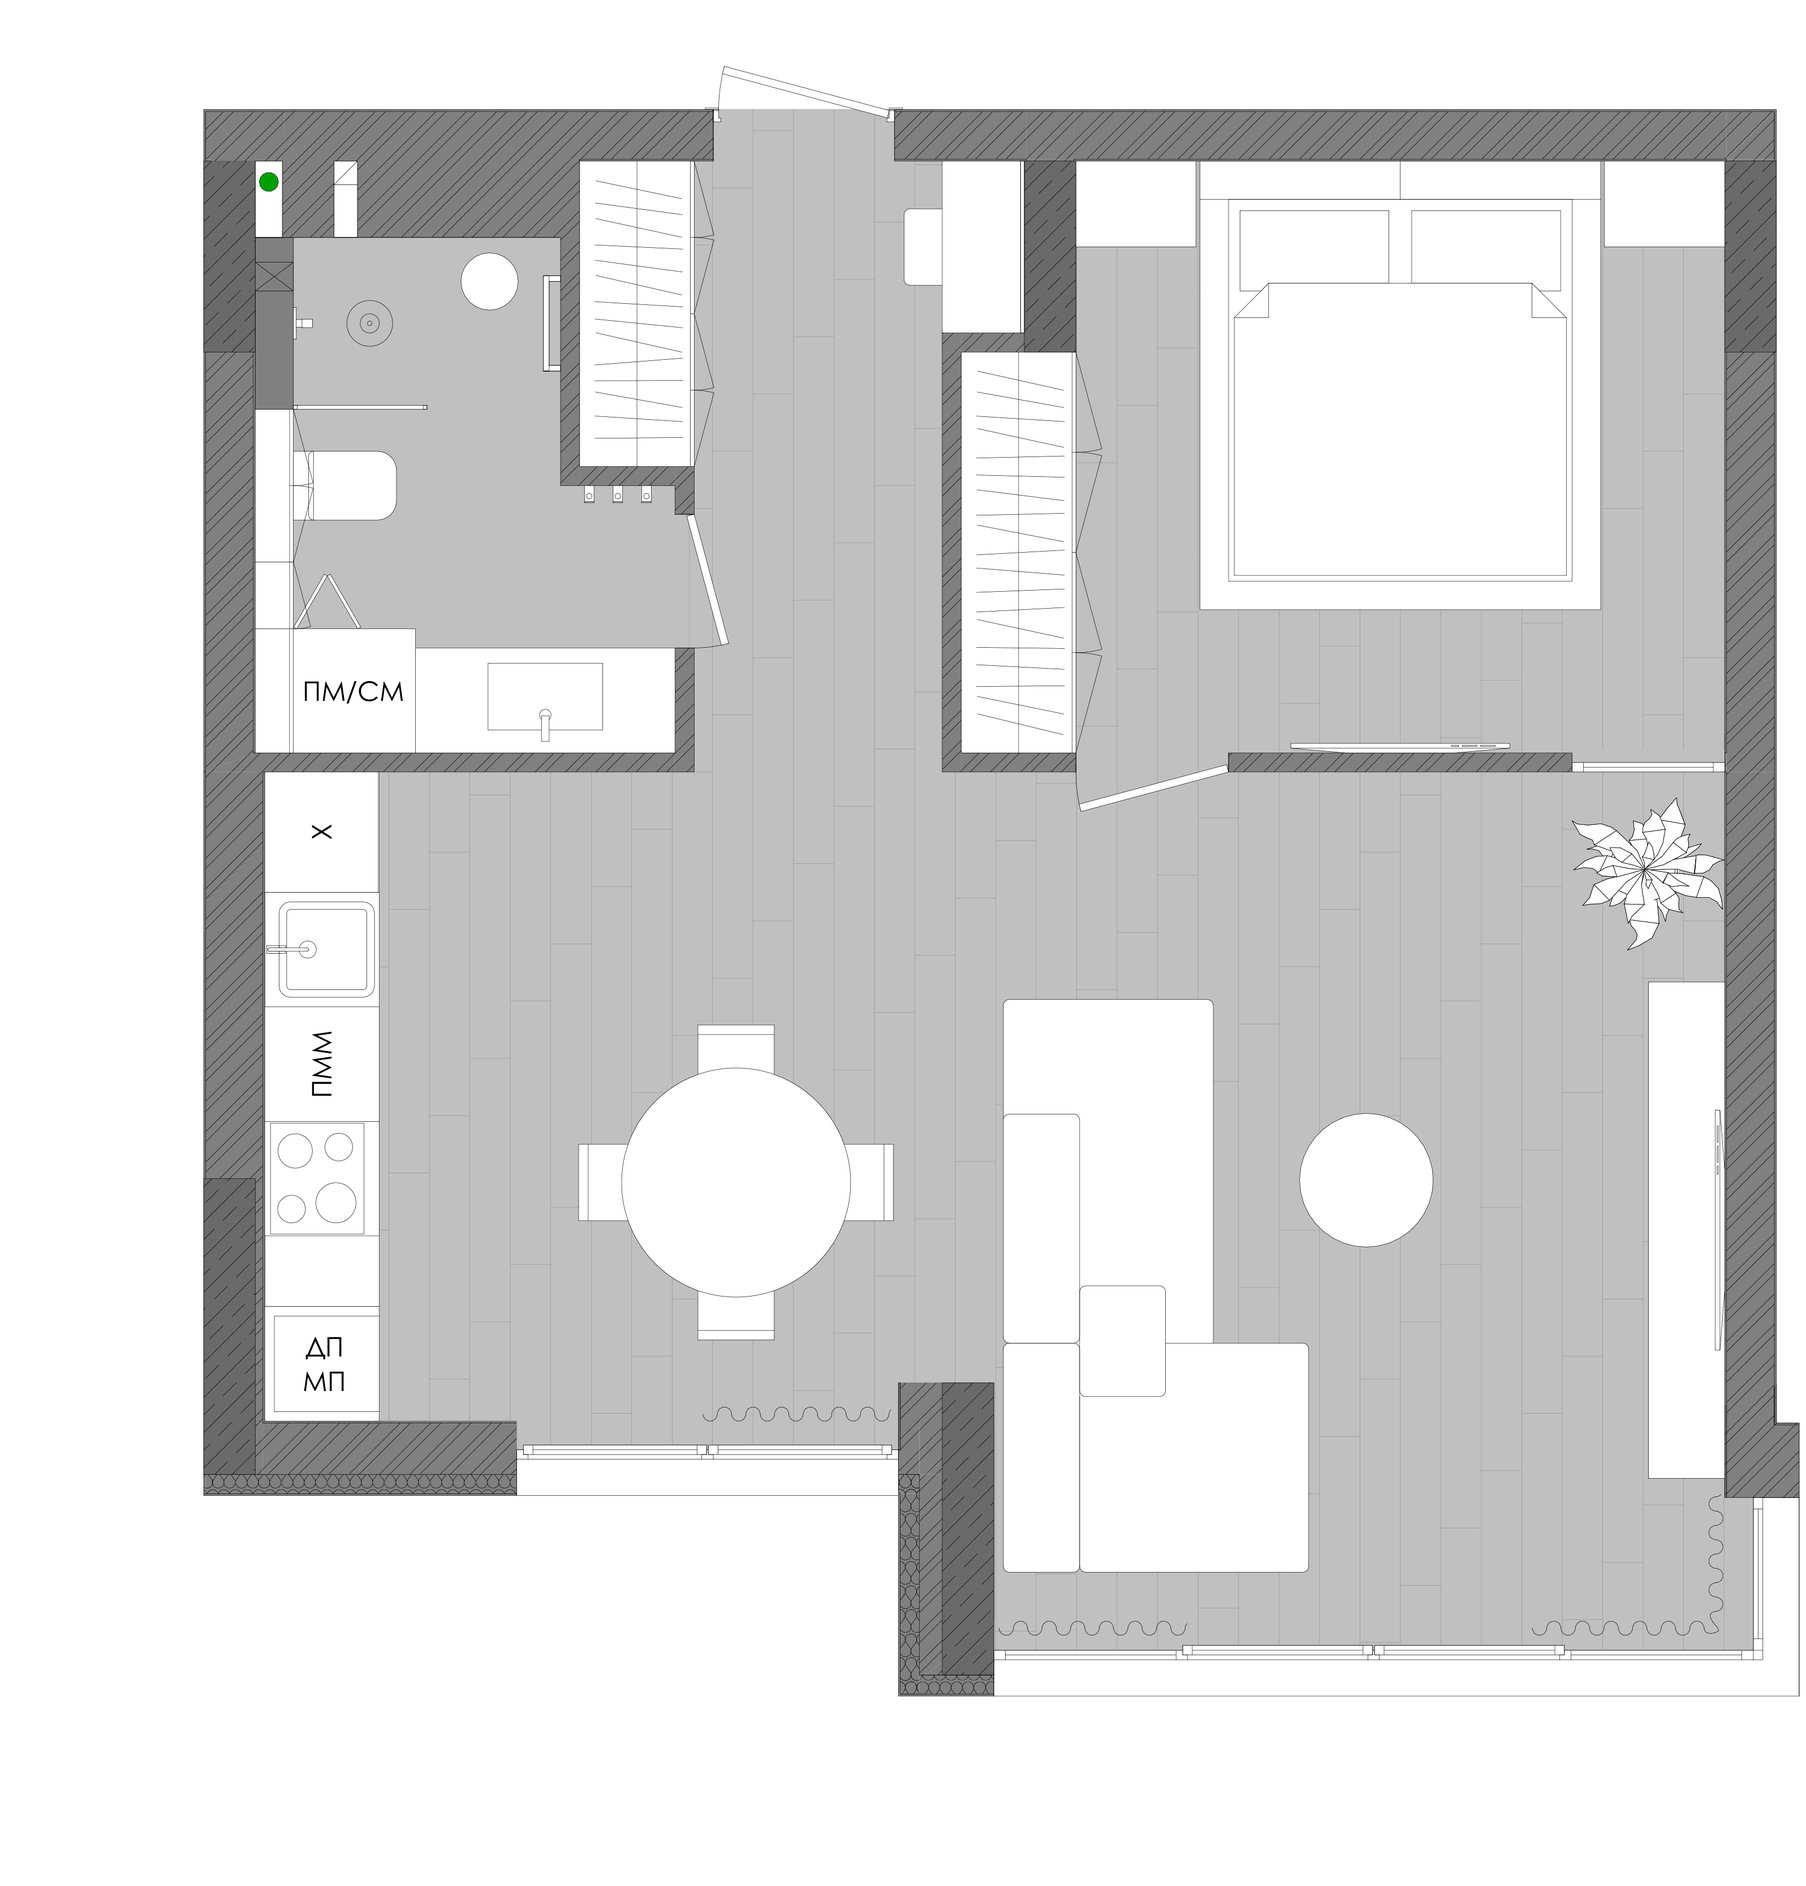
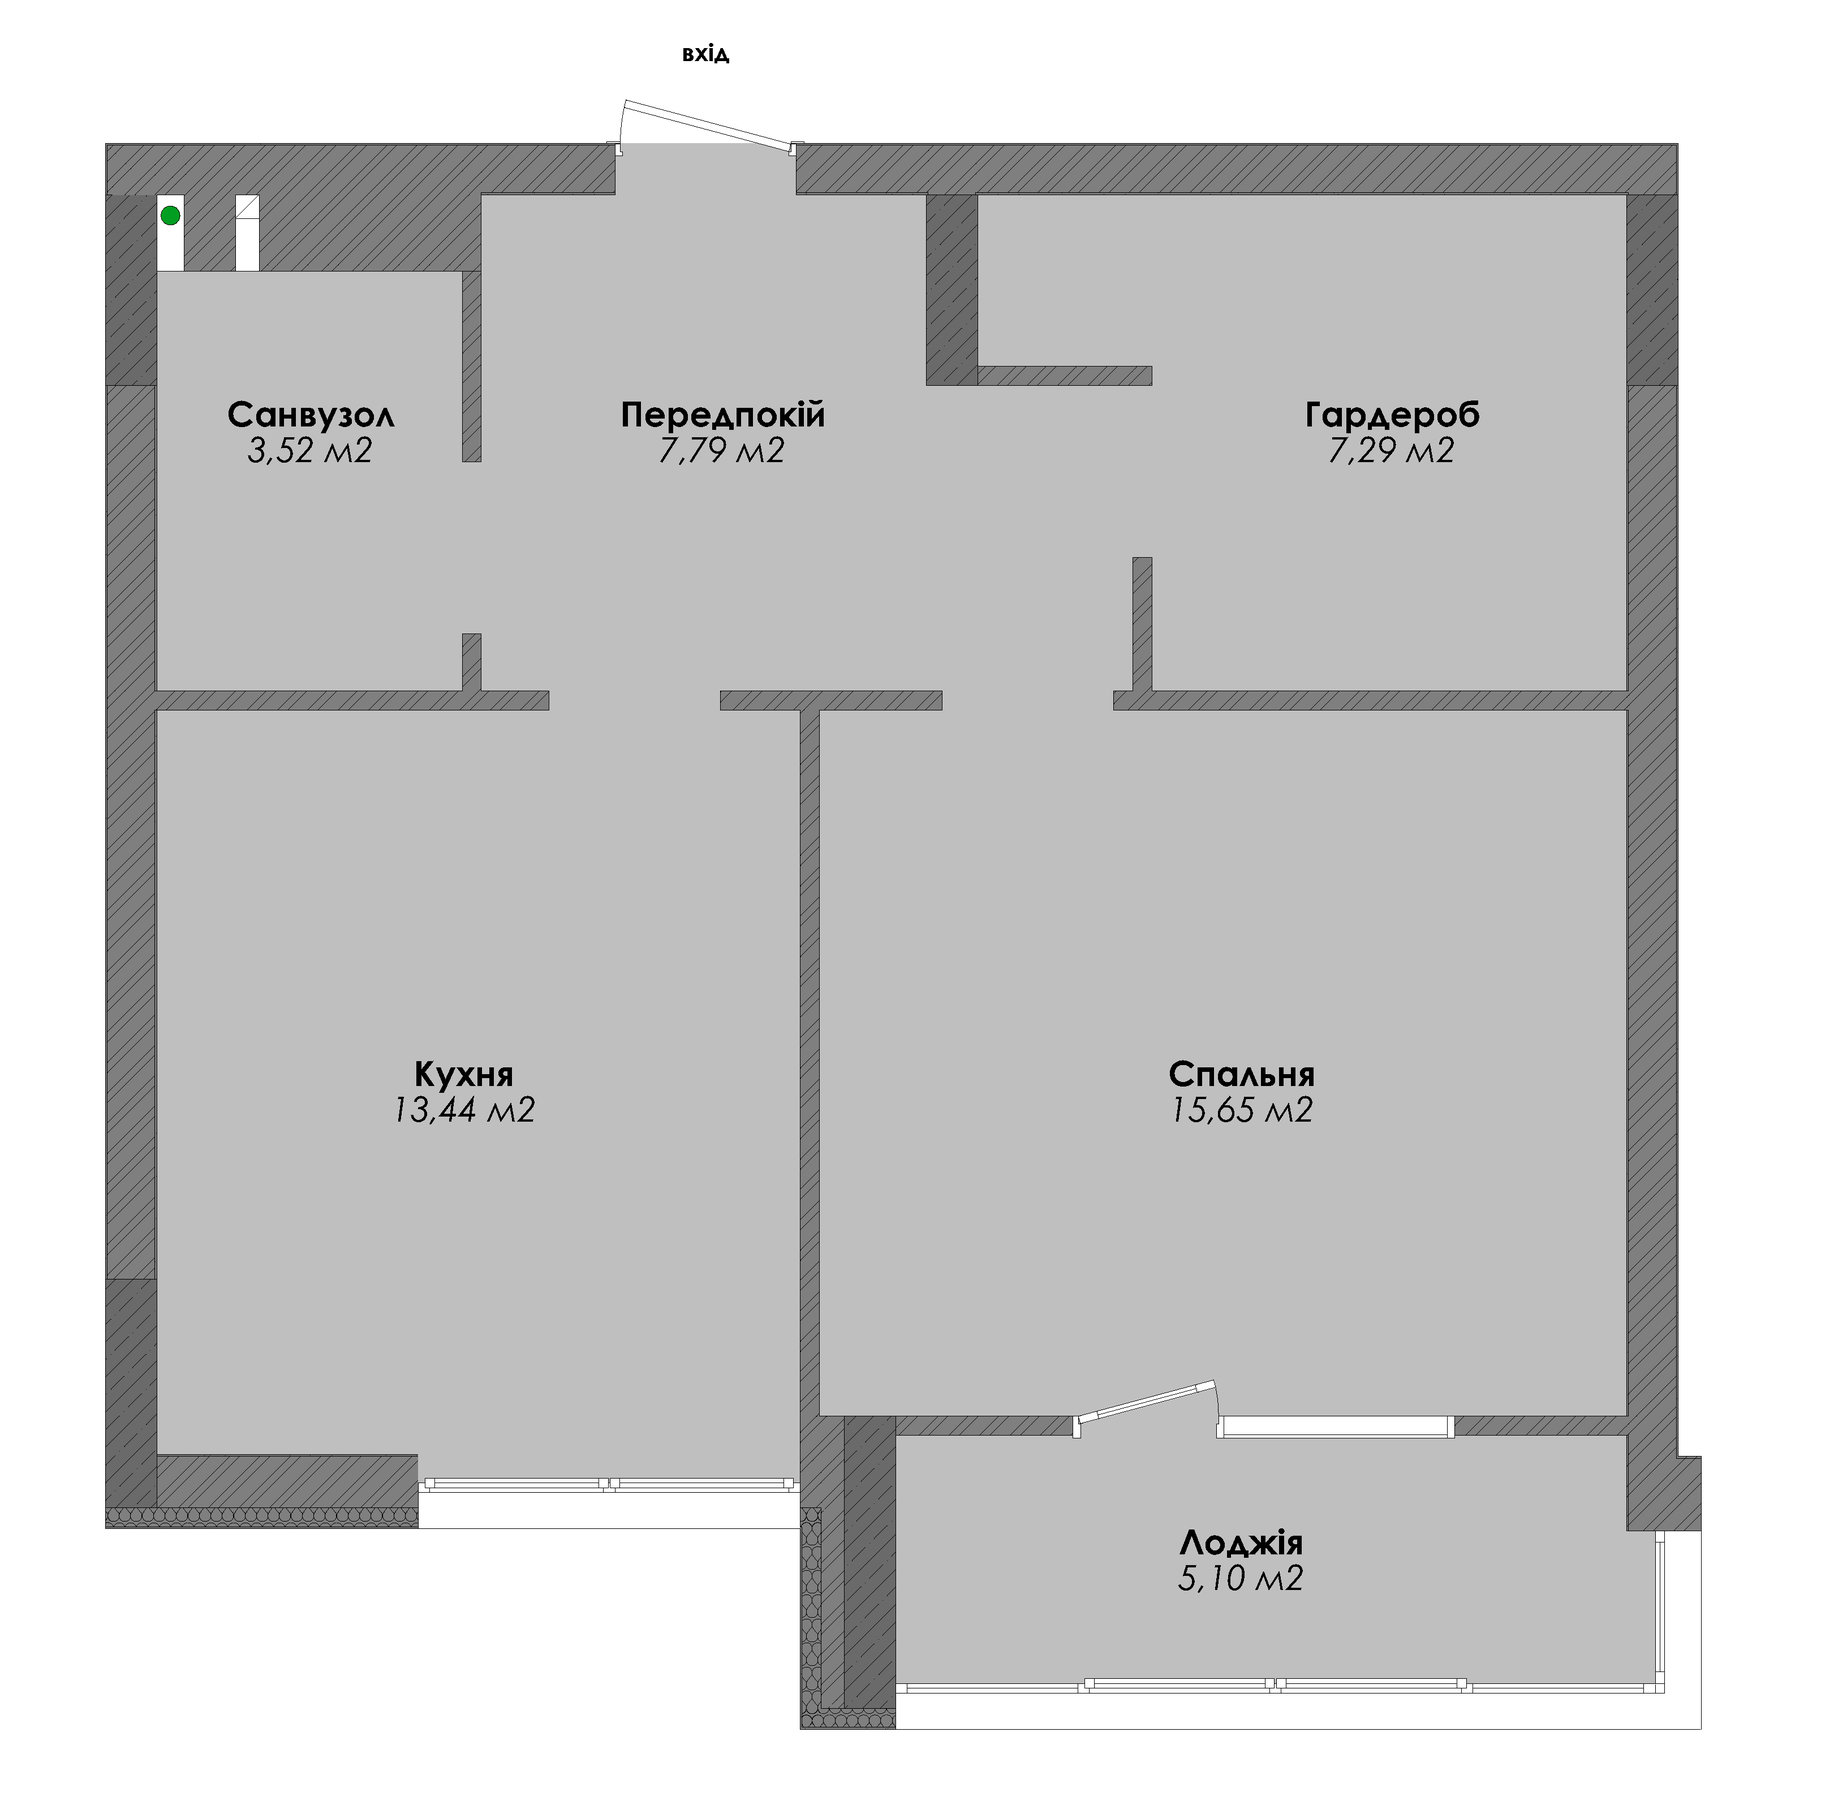
new project

diff --git a/project-kv-3.html b/project-kv-3.html
@@ -1,0 +1,228 @@
+<!DOCTYPE html>
+<html lang="en">
+
+<head>
+    <meta charset="UTF-8">
+    <meta name="viewport" content="width=device-width, initial-scale=1.0">
+    <title>ЖК Тополіс - замовити дизайн інтер'єру в студії ARton </title>
+    <link rel="shortcut icon" href="./img/favicon.ico" type="image/x-icon">
+    <link rel="stylesheet" href="./css/index.css">
+
+<body>
+    <header data-include="partials/index.header.partial.html"></header>
+    <main>
+        <section class="container info-project-details">
+            <div class="info-project-details__title">
+                <h2>Тополіс</h2>
+                <br>
+                <p><strong>Тип:</strong> квартира</p>
+                <p><strong>Площа:</strong> ??? м2</p>
+                <p><strong>Локація:</strong> ЖК Тополіс, Львів</p>
+                <p><strong>Рік:</strong> 2024</p>
+            </div>
+            <div class="info-project-details__text">
+                <p>Це однокімнатна квартира для молодої дівчини. Основним побажанням замовниці було перепланувати
+                    приміщення так, щоб виділити зону для вітальні з диваном та ТВ зоною.</p><br>
+                <p>Серед запропонованих замовниця обрала варіант з кардинальним переплануванням. Завдяки об’єднанню
+                    кухні, спальні та лоджії, отримала простору кухню-студію з великим диваном та ТВ зоною.</p><br>
+                <p>Кольорова гама проекту - це поєднання бежевого, антрацитового, акцентного зеленого кольору та теплого
+                    дерева. Таке поєднання виглядає затишно та стильно.</p>
+            </div>
+        </section>
+        <section class="container info-project-planning">
+            <div class="planning_before">
+                <p>до</p>
+                <img src="img/project-kv-2/planing_before.png" alt="">
+            </div>
+            <div class="planning_after">
+                <p>після</p>
+                <img src="img/project-kv-2/planing_after.png" alt="">
+            </div>
+        </section>
+        <section class="container info-project-rooms">
+            <h3>спальня</h3>
+            <div class="grid-gallery">
+                <div class="grid-position1">
+                    <img src="/img/project-kv-3/1.jpg" alt="Image 1">
+                </div>
+                <div class="grid-position2">
+                    <img src="/img/project-kv-3/2.jpg" alt="Image 1">
+                </div>
+            </div>
+            <div class="grid-gallery">
+                <div class="grid-position3">
+                    <img src="/img/project-kv-3/3.jpg" alt="Image 1">
+                </div>
+                <div class="grid-position4">
+                    <img src="/img/project-kv-3/4.jpg" alt="Image 1">
+                </div>
+            </div>
+        </section>
+        <section class="container info-project-virtual">
+            <iframe width="100%" height="800" frameborder="0" allow="xr-spatial-tracking" allowfullscreen scrolling="no"
+                src="https://kuula.co/share/hGBZy?logo=1&amp;info=1&amp;fs=1&amp;vr=0&amp;zoom=1&amp;sd=1&amp;autorotate=1.5&amp;thumbs=1&amp;alpha=0.60&amp;inst=0&amp;keys=0"
+                sandbox="allow-same-origin allow-scripts allow-pointer-lock allow-forms allow-popups"></iframe>
+        </section>
+        <section class="container info-project-rooms">
+            <div class="grid-gallery">
+                <div class="grid-position15">
+                    <img src="/img/project-kv-3/5.jpg" alt="Image 1">
+                </div>
+                <div class="grid-position16">
+                    <img src="/img/project-kv-3/6.jpg" alt="Image 1">
+                </div>
+                <div class="grid-position17">
+                    <img src="/img/project-kv-3/7.jpg" alt="Image 1">
+                </div>
+                <div class="grid-position18">
+                    <img src="/img/project-kv-3/8.jpg" alt="Image 1">
+                </div>
+            </div>
+        </section>
+        <section class="container info-project-rooms">
+            <h3>кухня</h3>
+            <div class="grid-gallery">
+                <div class="grid-position1">
+                    <img src="/img/project-kv-3/9.jpg" alt="Image 1">
+                </div>
+                <div class="grid-position2">
+                    <img src="/img/project-kv-3/10.jpg" alt="Image 1">
+                </div>
+            </div>
+            <div class="grid-gallery">
+                <div class="grid-position3">
+                    <img src="/img/project-kv-3/11.jpg" alt="Image 1">
+                </div>
+                <div class="grid-position4">
+                    <img src="/img/project-kv-3/12.jpg" alt="Image 1">
+                </div>
+            </div>
+        </section>
+        <section class="container info-project-virtual">
+            <iframe width="100%" height="800" frameborder="0" allow="xr-spatial-tracking" allowfullscreen scrolling="no"
+                src="https://kuula.co/share/hGBgC?logo=1&amp;info=1&amp;fs=1&amp;vr=0&amp;zoom=1&amp;sd=1&amp;autorotate=1.5&amp;autop=15&amp;thumbs=0&amp;alpha=0.60&amp;inst=0&amp;keys=0"
+                sandbox="allow-same-origin allow-scripts allow-pointer-lock allow-forms allow-popups"></iframe>
+        </section>
+        <section class="container info-project-rooms">
+            <div class="grid-gallery">
+                <div class="grid-position5">
+                    <img src="/img/project-kv-3/13.jpg" alt="Image 1">
+                </div>
+                <div class="grid-position6">
+                    <img src="/img/project-kv-3/14.jpg" alt="Image 1">
+                </div>
+                <div class="grid-position7">
+                    <img src="/img/project-kv-3/15.jpg" alt="Image 1">
+                </div>
+            </div>
+        </section>
+        <section class="container info-project-rooms">
+            <h3>передпокій</h3>
+            <div class="grid-gallery">
+                <div class="grid-position1">
+                    <img src="/img/project-kv-3/16.jpg" alt="Image 1">
+                </div>
+                <div class="grid-position2">
+                    <img src="/img/project-kv-3/17.jpg" alt="Image 1">
+                </div>
+            </div>
+            <div class="grid-gallery">
+                <div class="grid-position9">
+                    <img src="/img/project-kv-3/18.jpg" alt="Image 1">
+                </div>
+                <div class="grid-position10">
+                    <img src="/img/project-kv-3/19.jpg" alt="Image 1">
+                </div>
+                <div class="grid-position8">
+                    <img src="/img/project-kv-3/20.jpg" alt="Image 1">
+                </div>
+            </div>
+        </section>
+        <section class="container info-project-virtual">
+            <iframe width="100%" height="800" frameborder="0" allow="xr-spatial-tracking" allowfullscreen scrolling="no"
+                src="https://kuula.co/share/collection/7bLRX?logo=1&amp;info=1&amp;fs=1&amp;vr=0&amp;zoom=1&amp;sd=1&amp;autorotate=1.5&amp;autop=15&amp;thumbs=0&amp;alpha=0.60&amp;inst=0&amp;keys=0"
+                sandbox="allow-same-origin allow-scripts allow-pointer-lock allow-forms allow-popups"></iframe>
+        </section>
+        <section class="container info-project-rooms">
+            <div class="grid-gallery">
+                <div class="grid-position15">
+                    <img src="/img/project-kv-3/21.jpg" alt="Image 1">
+                </div>
+                <div class="grid-position16">
+                    <img src="/img/project-kv-3/22.jpg" alt="Image 1">
+                </div>
+                <div class="grid-position17">
+                    <img src="/img/project-kv-3/23.jpg" alt="Image 1">
+                </div>
+                <div class="grid-position18">
+                    <img src="/img/project-kv-3/24.jpg" alt="Image 1">
+                </div>
+            </div>
+        </section>
+        <section class="container info-project-rooms">
+            <h3>санвузол</h3>
+            <div class="grid-gallery">
+                <div class="grid-position5">
+                    <img src="/img/project-kv-3/25.jpg" alt="Image 1">
+                </div>
+                <div class="grid-position6">
+                    <img src="/img/project-kv-3/26.jpg" alt="Image 1">
+                </div>
+                <div class="grid-position7">
+                    <img src="/img/project-kv-3/27.jpg" alt="Image 1">
+                </div>
+            </div>
+            <div class="grid-gallery">
+                <div class="grid-position15">
+                    <img src="/img/project-kv-3/28.jpg" alt="Image 1">
+                </div>
+                <div class="grid-position16">
+                    <img src="/img/project-kv-3/29.jpg" alt="Image 1">
+                </div>
+                <div class="grid-position17">
+                    <img src="/img/project-kv-3/30.jpg" alt="Image 1">
+                </div>
+                <div class="grid-position18">
+                    <img src="/img/project-kv-3/31.jpg" alt="Image 1">
+                </div>
+            </div>
+        </section>
+        <section class="container info-project-virtual">
+            <iframe width="100%" height="800" frameborder="0" allow="xr-spatial-tracking" allowfullscreen scrolling="no"
+                src="https://kuula.co/share/collection/7bLRX?logo=1&amp;info=1&amp;fs=1&amp;vr=0&amp;zoom=1&amp;sd=1&amp;autorotate=1.5&amp;autop=15&amp;thumbs=0&amp;alpha=0.60&amp;inst=0&amp;keys=0"
+                sandbox="allow-same-origin allow-scripts allow-pointer-lock allow-forms allow-popups"></iframe>
+        </section>
+        <section class="container info-project-rooms">
+            <h3>лоджія</h3>
+            <div class="grid-gallery">
+                <div class="grid-position5">
+                    <img src="/img/project-kv-3/32.jpg" alt="Image 1">
+                </div>
+                <div class="grid-position6">
+                    <img src="/img/project-kv-3/33.jpg" alt="Image 1">
+                </div>
+                <div class="grid-position7">
+                    <img src="/img/project-kv-3/34.jpg" alt="Image 1">
+                </div>
+            </div>
+        </section>
+        <section class="container info-project-virtual">
+            <iframe width="100%" height="800" frameborder="0" allow="xr-spatial-tracking" allowfullscreen scrolling="no"
+                src="https://kuula.co/share/hf4KR?logo=1&amp;info=1&amp;fs=1&amp;vr=0&amp;zoom=1&amp;sd=1&amp;autorotate=1.5&amp;autop=15&amp;thumbs=0&amp;alpha=0.60&amp;inst=0&amp;keys=0"
+                sandbox="allow-same-origin allow-scripts allow-pointer-lock allow-forms allow-popups"></iframe>
+                <br><br><br>
+        </section>
+        <div class="lightbox">
+            <button class="close">&times;</button>
+            <button class="prev">&#10094;</button>
+            <img src="" alt="Zoomed Image">
+            <button class="next">&#10095;</button>
+        </div>
+        <section data-include="partials/index.section.client-communication.partial.html"></section>
+    </main>
+    <footer data-include="partials/index.footer.partial.html"></footer>
+    <script src="https://unpkg.com/html-data-include@3.3.3/html-data-include.js"></script>
+    <script src="scripts/index.js"></script>
+</body>
+
+</html>

diff --git a/partials/index.section.project-design.partial.html b/partials/index.section.project-design.partial.html
@@ -20,11 +20,11 @@
             </a>
         </div>
         <div class="project-design__info">
-            <a href="#">
-                <img src="img/img_project_index/test_one.png" alt="">
+            <a href="../project-kv-3.html">
+                <img src="../img/project-kv-3/1.jpg" alt="">
                 <div class="project-design__info-mask">
-                    <h4>test3</h4>
-                    <p>test3</p>
+                    <h4>Тополіс</h4>
+                    <p>1-кімнатна квартика ??? м2</p>
                 </div>
             </a>
         </div>

diff --git a/partials/index.section.projects-info.partial.html b/partials/index.section.projects-info.partial.html
@@ -19,11 +19,11 @@
             </a>
         </div>
         <div class="project-info__info">
-            <a href="#">
-                <img src="img/img_project_index/test_one.png" alt="">
+            <a href="../project-kv-3.html">
+                <img src="../img/project-kv-3/1.jpg" alt="">
                 <div class="project-info__info-mask">
-                    <h4>test3</h4>
-                    <p>test3</p>
+                    <h4>Тополіс</h4>
+                    <p>1-кімнатна квартика ?? м2</p>
                 </div>
             </a>
         </div>
